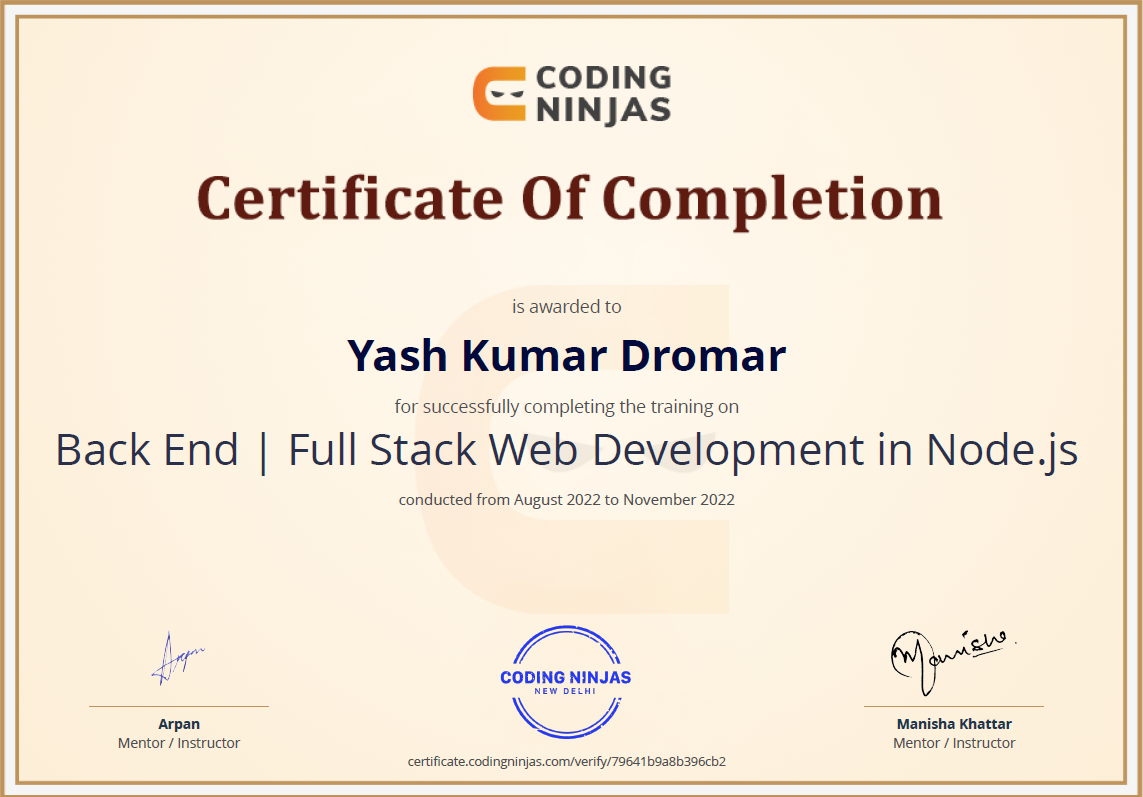
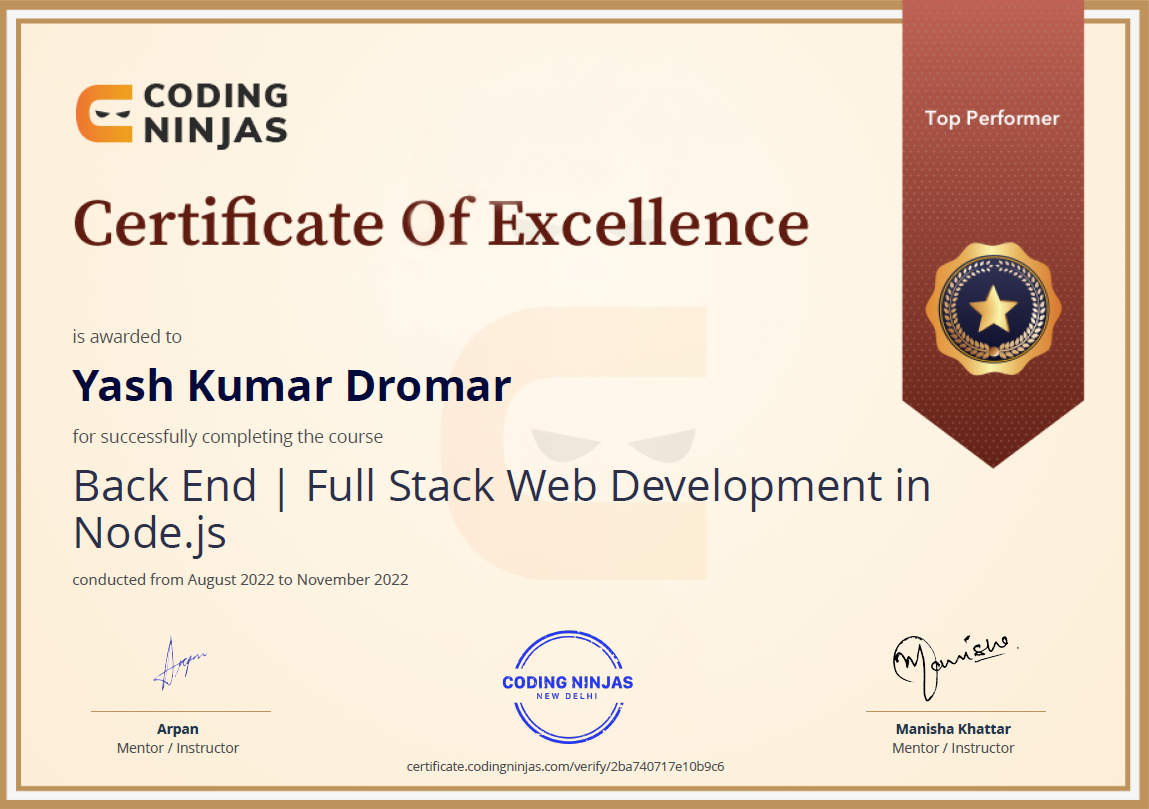
backend certificate updated

diff --git a/index.html b/index.html
@@ -216,7 +216,7 @@ initial-scale=1,minimum-scale=1">
           </div>
           <div class="container-box">
             <img src="static/certificates/backend.png">
-            <div class="container-details"><a href="https://certificate.codingninjas.com/view/79641b9a8b396cb2" target="_blank">View Certificate</a></div>
+            <div class="container-details"><a href="https://certificate.codingninjas.com/view/2ba740717e10b9c6" target="_blank">View Certificate</a></div>
 
             <div class="container-title">Node JS | Backend Web Development</div>
 
